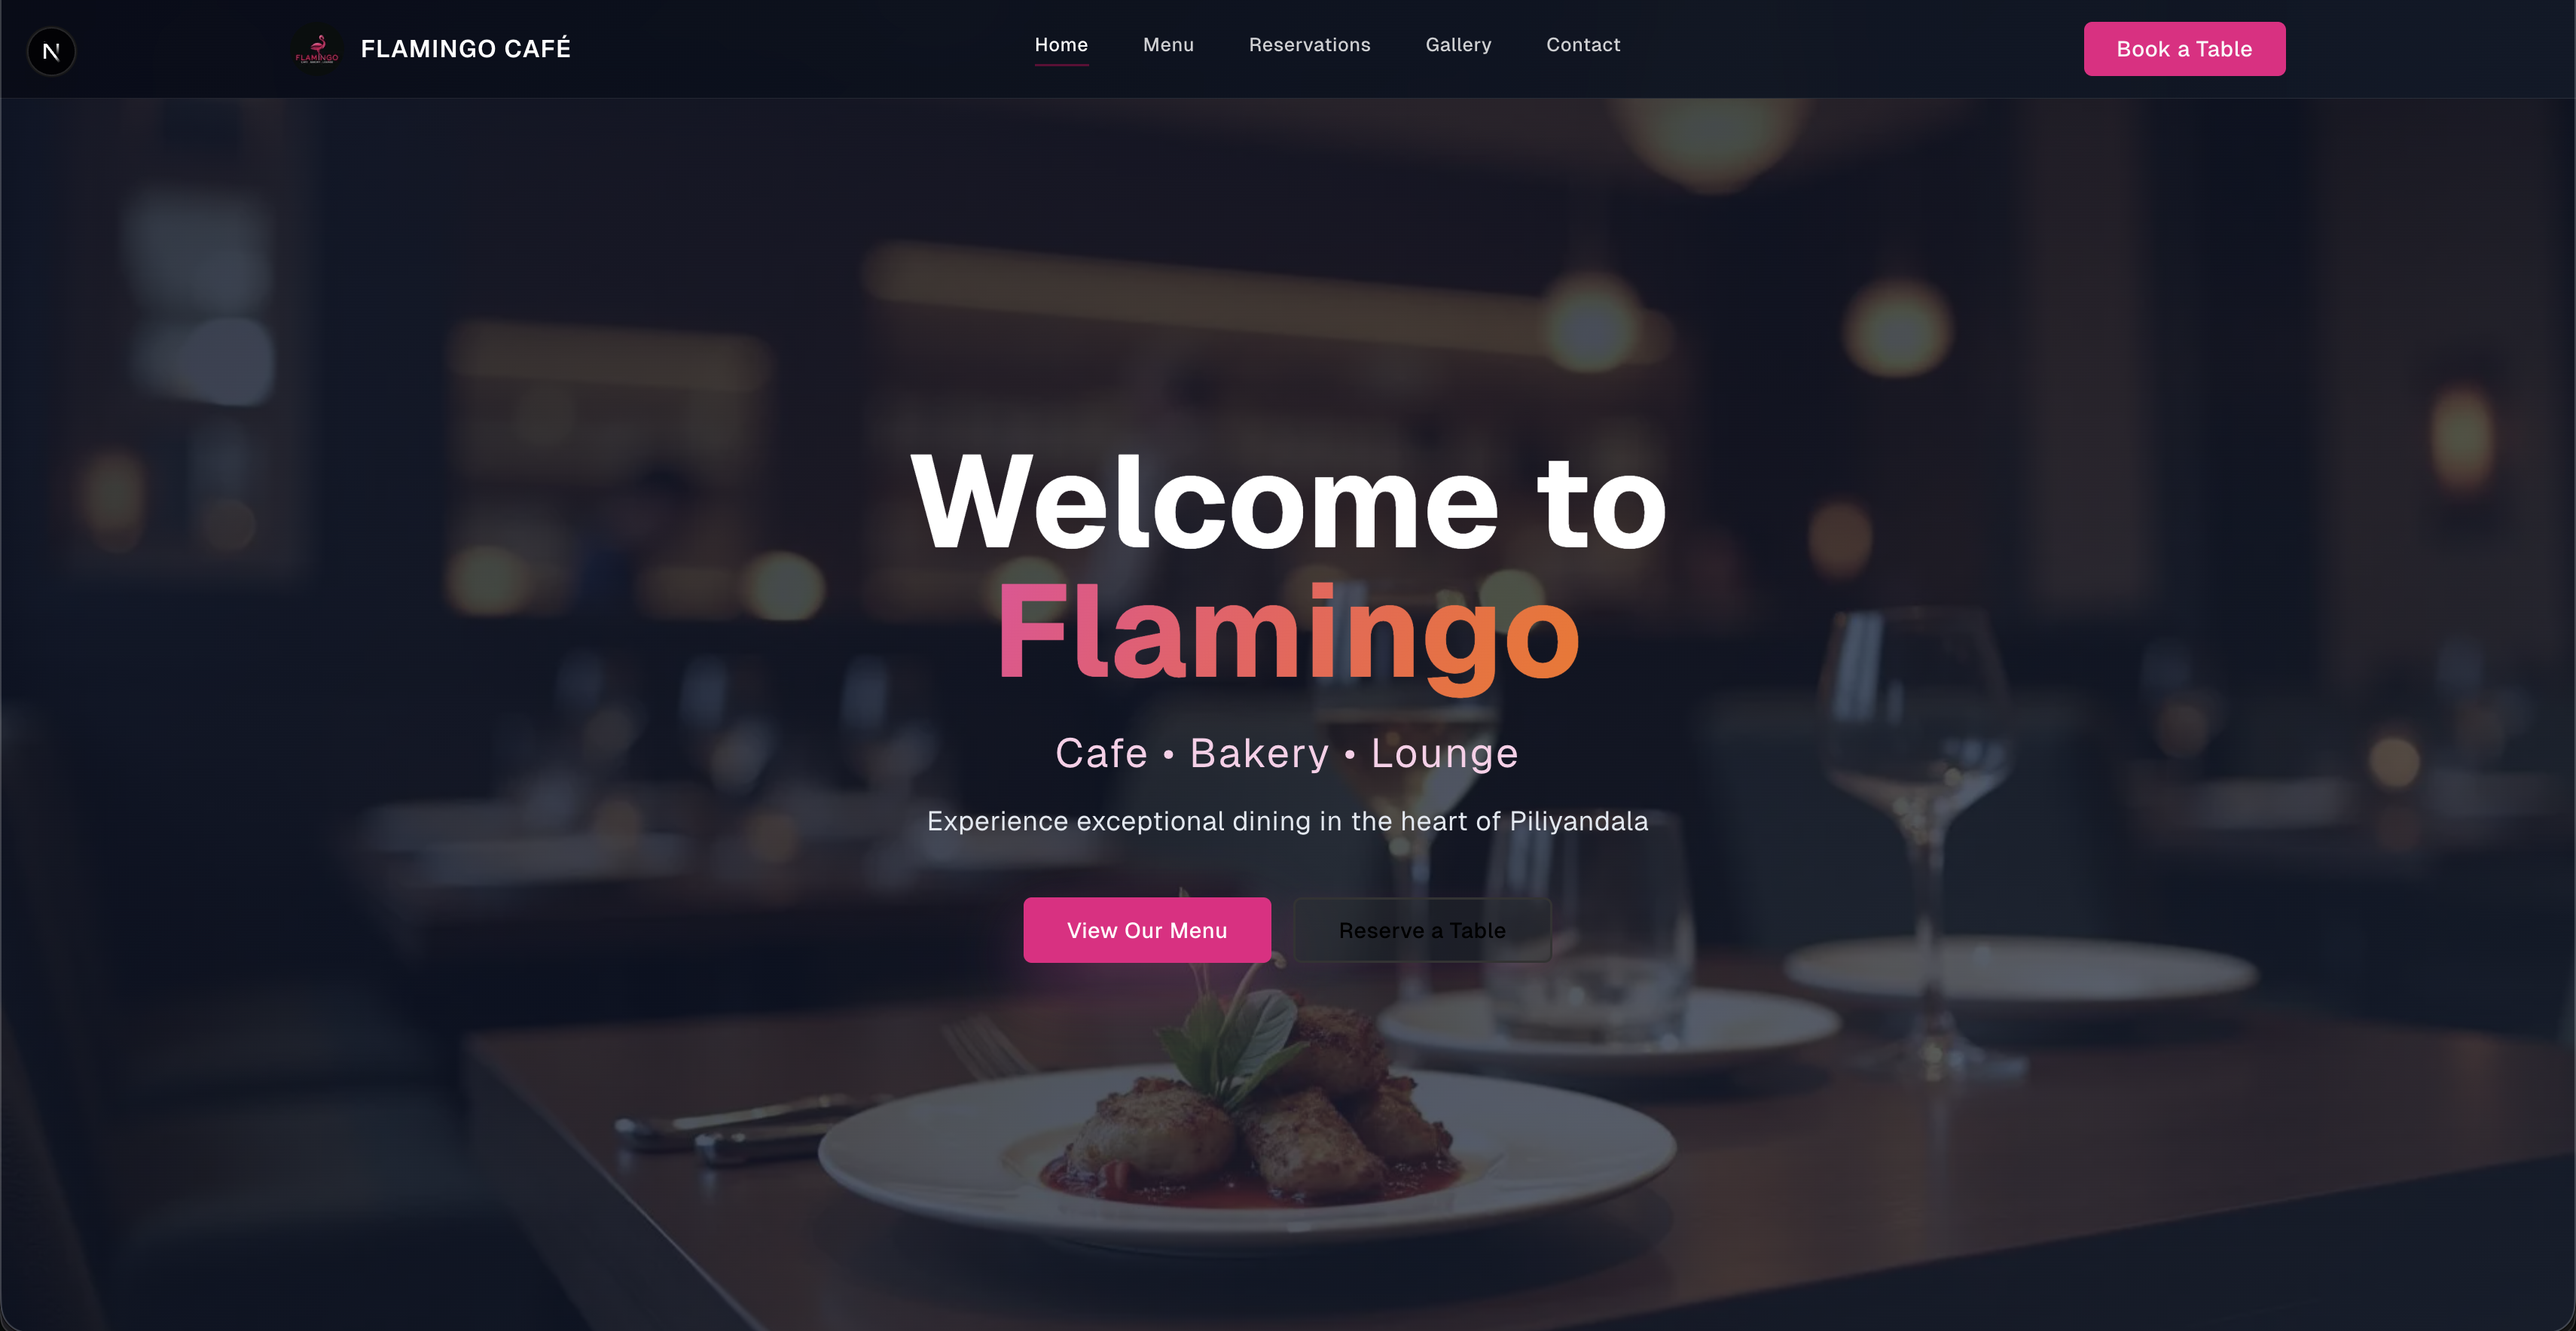
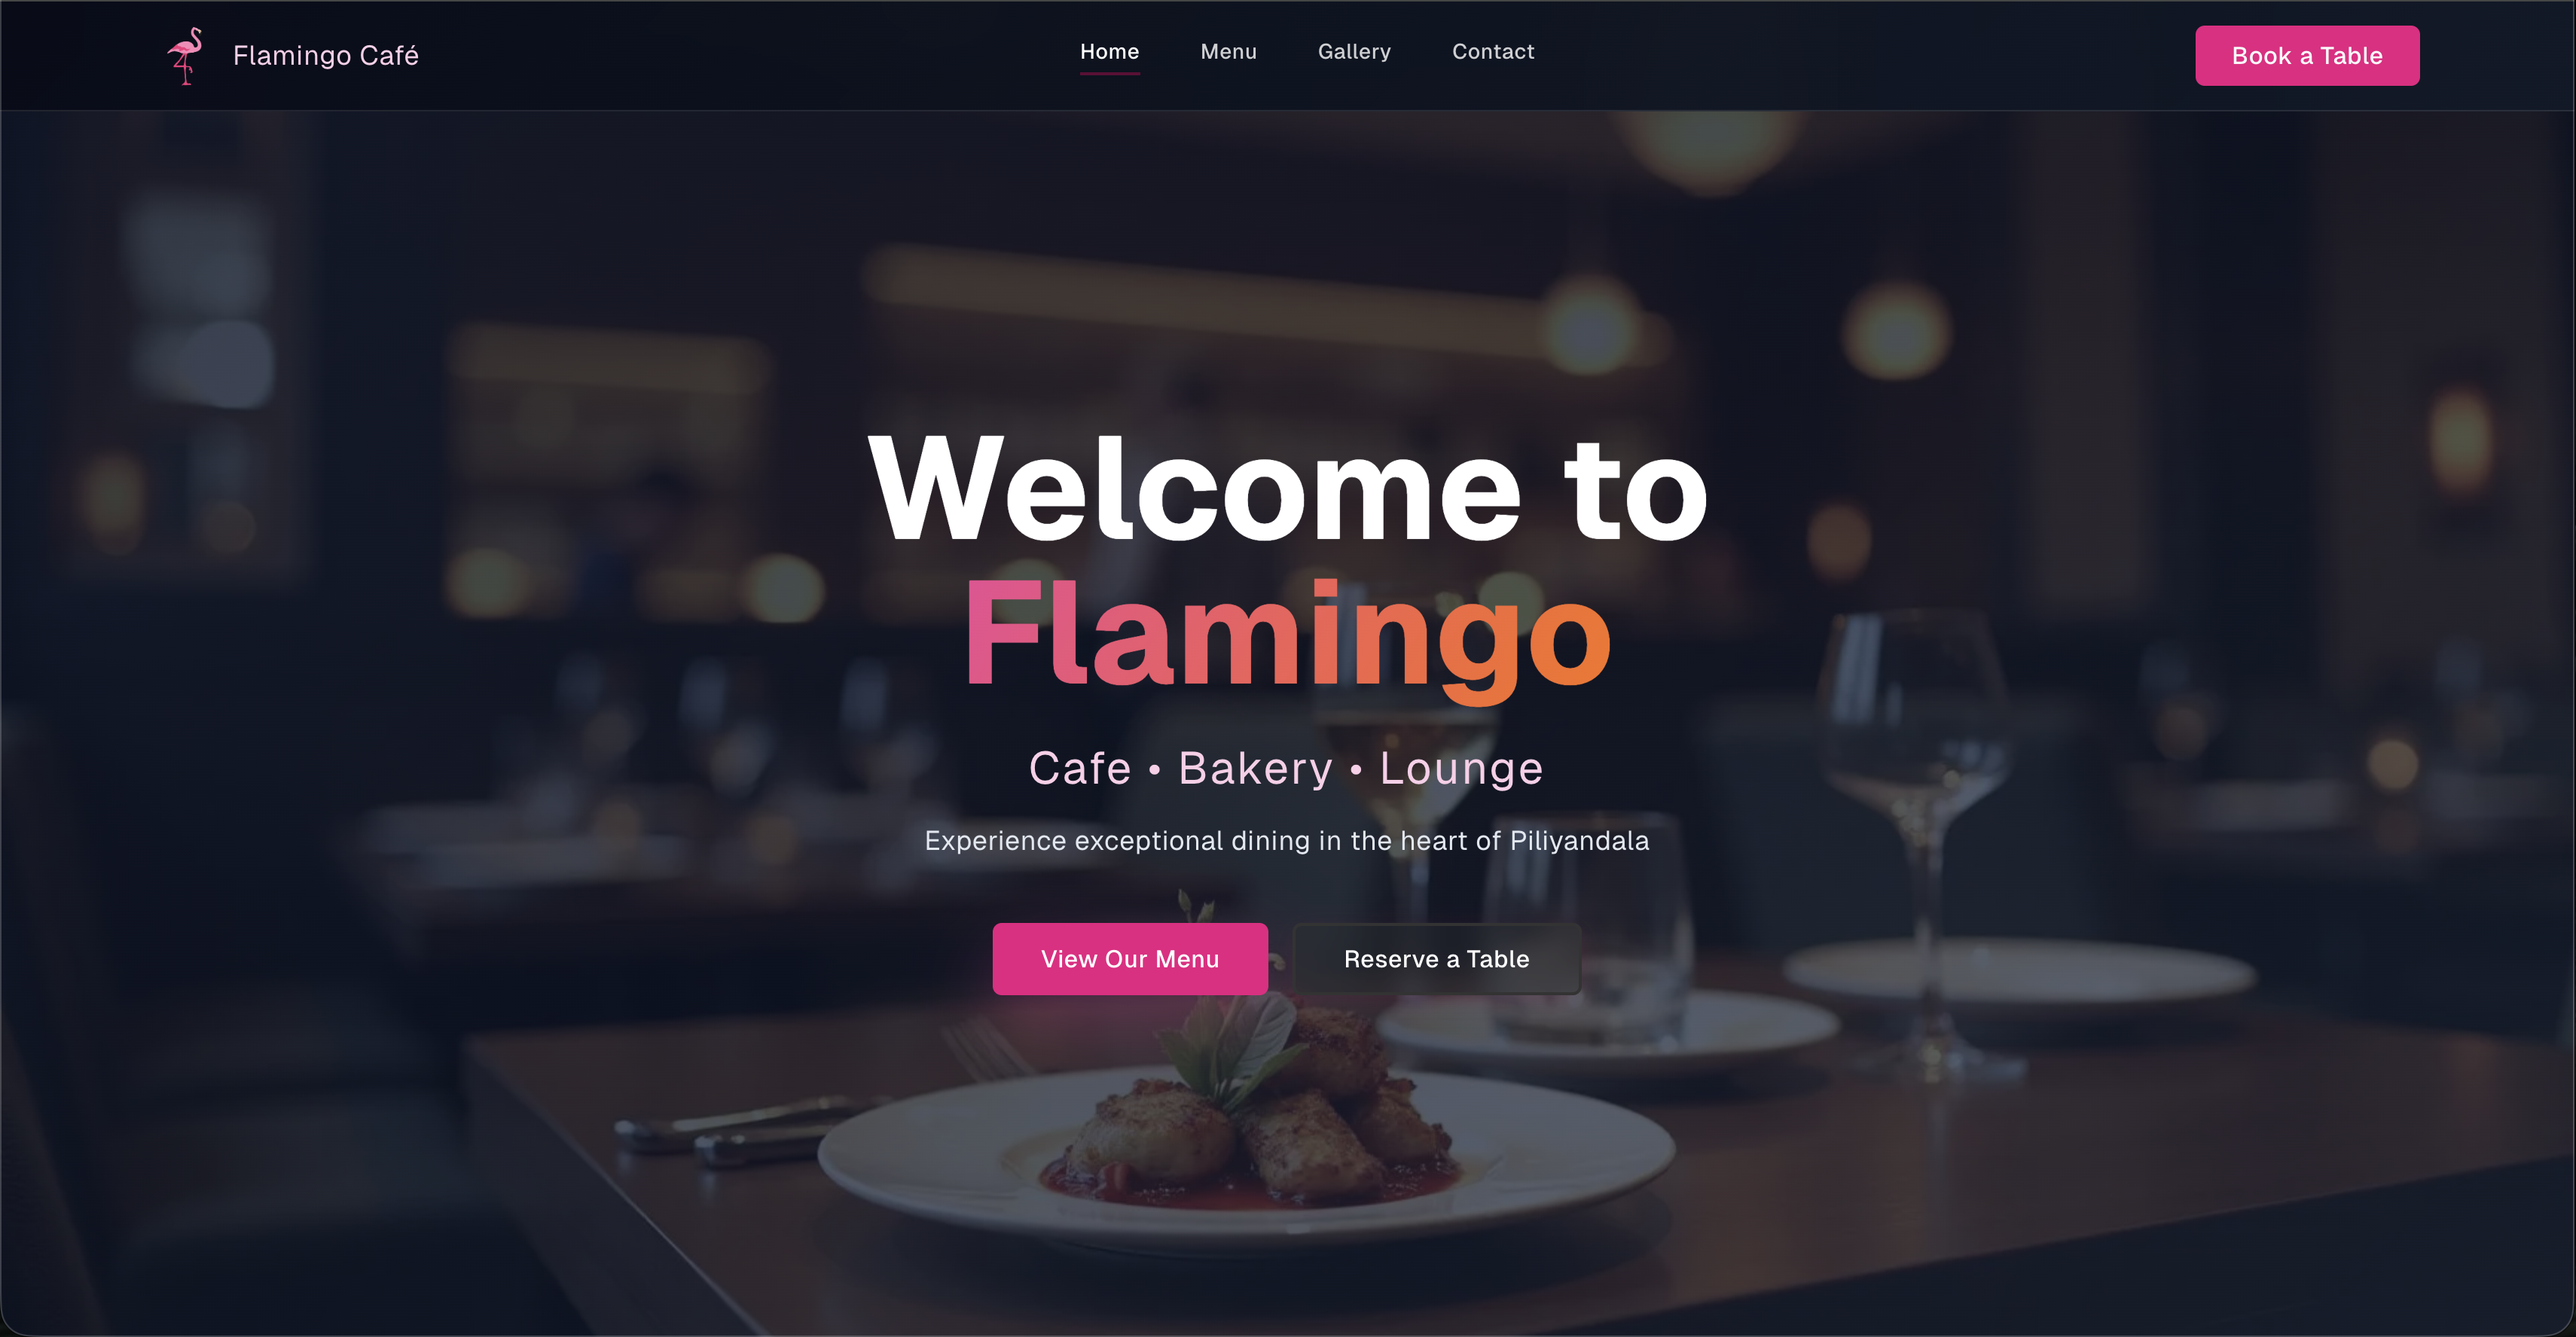
feat: add Cafe Flamingo project and update LPG Engineering Services details

diff --git a/src/components/sections/Projects.tsx b/src/components/sections/Projects.tsx
@@ -88,6 +88,25 @@ const projects = [
     category: 'Full-Stack',
   },
   {
+    title: 'Cafe Flamingo- Group Project',
+    description:
+      'Flamingo is a full-stack restaurant management and customer engagement platform designed to unify the restaurant’s online and operational workflows.',
+    longDescription:
+      'I led the development of key client-facing and administrative functionalities of the Flamingo platform. I implemented secure Google Account login for admin users using NextAuth, enabling smooth and modern authentication. I developed the dynamic menu management system—including adding, editing, hiding, reordering, and instantly updating menu items on the live website—fully connected to MongoDB. I also built the gallery management module, allowing admins to upload, manage, and publish restaurant moments displayed beautifully on the public gallery page. To enhance SEO and performance, I implemented lazy loading for images, optimized page structure with semantic header tags (About, Menu, Gallery, Contact), and ensured full mobile responsiveness across all pages. Additionally,',
+    tags: [
+      'Next JS',
+      'MongoDB',
+      'Prisma',
+      'Google Analytics',
+      'Supabase Storage',
+      'Vercel',
+    ],
+    image: '/flamingo.png',
+    github: 'https://github.com/orgs/cafe-flamingo-Team-9x/repositories',
+    demo: 'https://flamingo-one.vercel.app/',
+    category: 'Full-Stack',
+  },
+  {
     title: 'TechBar- Automated Bartender Machine- Group Project',
     description:
       'Beautiful weather app with forecasts, maps, and personalized alerts.',
@@ -204,22 +223,15 @@ const projects = [
     category: 'Full-Stack',
   },
   {
-    title: 'Flamingo Web- Ongoing- Group Project',
-    description: 'Website for Flamingo Cafe and BYOB located in Piliyandala',
+    title: 'LPG Engineering Services- Group Project',
+    description:
+      'A web application frontend for managing LPG services, including customer management, service scheduling, and inventory tracking.',
     longDescription:
-      'Admin Dashboard home with quick stats (Reservations today, Feedback pending, Active promotions), User authentication- OAuth2 (Admin login), Simple analytics integration (visitor count, reservation numbers)',
-    tags: [
-      'Next JS',
-      'MongoDB',
-      'Prisma',
-      'Google Analytics',
-      'Cloudflare S3',
-      'Vercel',
-    ],
-    image: '/flamingo.png',
-    github: 'https://github.com/cafe-flamingo-Team-9x/flamingo-web.git',
-    demo: '',
-    category: 'Full-Stack',
+      'A comprehensive web application frontend for managing LPG services, including customer management, service scheduling, and inventory tracking. The system features secure authentication, role-based access control, and a user-friendly interface for both customers, employees and administrators.',
+    tags: ['React', 'Tailwind CSS', 'Shadcn UI'],
+    image: '/mis.jpeg',
+    github: 'https://github.com/VishwaJaya01/mis-erp-frontend.git',
+    category: 'Frontend',
   },
   {
     title: 'Shopper- E Commerce- Individual Project',
